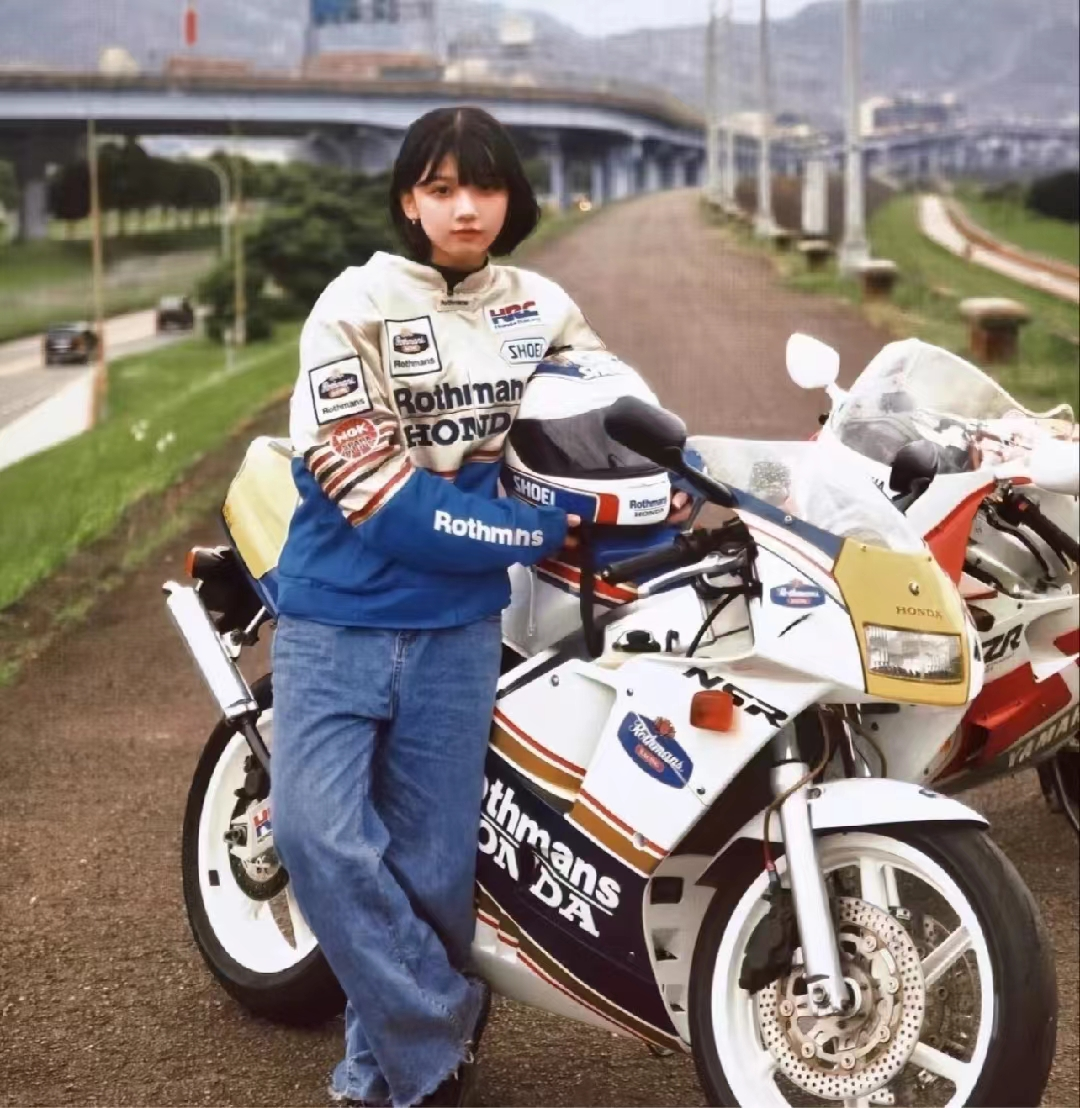
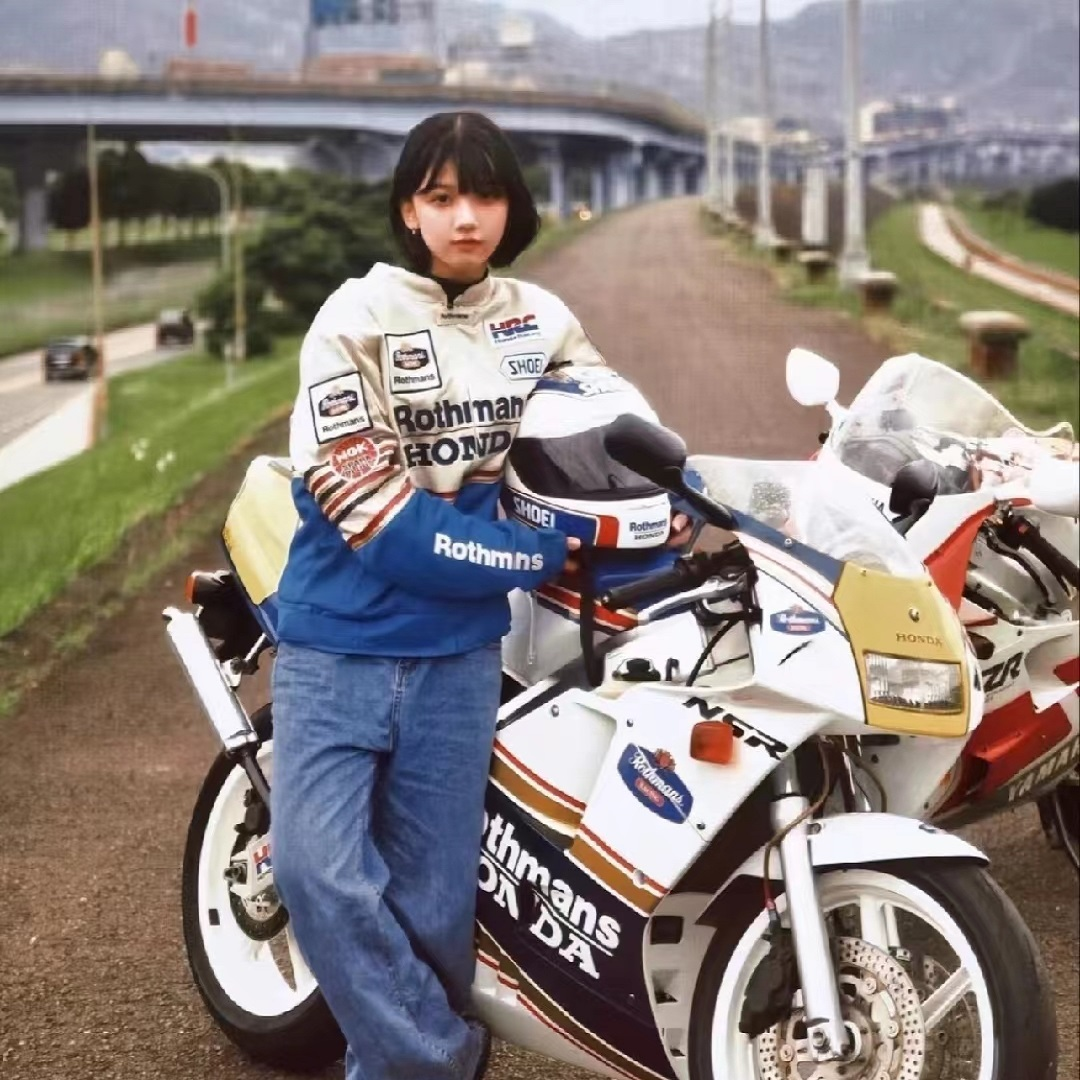
更新九龄图片和修改段落细节

diff --git a/src/views/conter/index.vue b/src/views/conter/index.vue
@@ -47,7 +47,7 @@
           </p>
           <p class="myWebIntrooduce" style="margin-top: 20px">
             <a
-              href="https://www.bilibili.com"
+              href=""
               style="text-decoration: none; color: #002fa7"
               >去看看我的文章
               <svg
@@ -118,23 +118,12 @@
         justify="center"
         style="margin-top: 30px"
         :gutter="30"
-      >
-        <el-col :span="7">
-          <img
-            src="../../assets/dc7b9bab75eb5c1347536417d7b5a5e.jpg"
-            alt=""
-            style="width: 100%; height: 75%"
-          />
-          <h5 style="margin: 10px 0px; color: rgb(59, 59, 59)">CAMERA</h5>
-          <h3>华南农业大学的牛牛</h3>
-          <h5>_______</h5>
-          <h5 style="font-style: italic; margin-top: 10px">by Web</h5>
-        </el-col>
+      > 
         <el-col :span="7">
           <img
             src="../../assets/6fb5314fa7ab822b04926d3d03a01e8.jpg"
             alt=""
-            style="width: 100%; height: 75%"
+            style="width: 100%; height: auto"
           />
           <h5 style="margin: 10px 0px; color: rgb(59, 59, 59)">PEOPLE</h5>
           <a
@@ -169,12 +158,47 @@
           <img
             src="../../assets/f1affa5852406db49844164e1d1381d.jpg"
             alt=""
-            style="width: 100%; height: 75%"
+            style="width: 100%; height: auto"
           />
           <h5 style="margin: 10px 0px; color: rgb(59, 59, 59)">PEOPLE</h5>
           <h3>很cool的车车</h3>
           <h5>_______</h5>
           <h5 style="font-style: italic; margin-top: 10px">by NoName</h5>
+        </el-col>
+        <el-col :span="7">
+          <img
+            src="@/assets/imgs/九龄.png"
+            alt=""
+            style="width: 100%; height: auto;"
+          />
+          <h5 style="margin: 10px 0px; color: rgb(59, 59, 59)">PEOPLE</h5>
+          <a
+            href="https://space.bilibili.com/51588985"
+            style="color: black; text-decoration: none"
+          >
+            <h3>
+              B站up:是一只九龄
+              <svg
+                t="1692949855247"
+                class="icon"
+                viewBox="0 0 1024 1024"
+                version="1.1"
+                xmlns="http://www.w3.org/2000/svg"
+                p-id="3799"
+                width="32"
+                height="32"
+              >
+                <path
+                  d="M455.68 404.032l91.264 529.152c0 0 67.456-69.44 123.136-117.888l122.432 163.904c4.928 6.656 15.68 7.104 23.872 1.088l52.288-38.208c8.256-6.016 10.944-16.32 5.952-22.976l-119.104-159.424c62.208-25.088 164.672-53.632 164.672-53.632L455.68 404.032zM308.352 648.384l-135.872 99.328c-20.544 15.04-24.256 43.968-8 65.408 16.256 21.376 46.272 27.008 66.752 12.032l135.872-99.328c20.992-15.36 24.512-45.504 8.256-66.88C359.168 637.504 329.344 633.024 308.352 648.384zM949.696 238.976c-16.256-21.376-45.632-26.176-67.072-10.496l-134.912 98.688c-21.44 15.68-25.152 44.672-8.896 66.048 16.256 21.376 46.272 27.008 67.712 11.328l134.912-98.688C962.88 290.176 965.952 260.352 949.696 238.976zM319.296 136.832c-15.936-20.928-45.248-25.728-66.752-10.048-20.096 14.72-24.256 43.968-8.32 64.896l105.536 138.816c15.936 20.992 45.696 25.408 65.792 10.688 21.44-15.68 25.216-44.608 9.28-65.6L319.296 136.832zM585.792 301.76c26.176 4.224 50.24-13.376 53.632-39.232l21.184-167.808c3.392-25.792-14.976-49.984-41.536-54.656-26.176-4.224-50.24 13.376-53.632 39.168l-21.248 167.872C540.928 272.96 559.296 297.088 585.792 301.76zM329.728 489.024c2.56-25.92-15.808-50.048-41.536-54.656l-170.048-27.968c-27.072-3.584-50.688 13.696-53.632 39.232-3.904 26.944 14.464 51.072 41.536 54.656l170.048 27.968C301.824 532.736 325.504 515.456 329.728 489.024z"
+                  fill="#272636"
+                  p-id="3800"
+                ></path>
+              </svg>
+            </h3>
+          </a>
+
+          <h5>_______</h5>
+          <h5 style="font-style: italic; margin-top: 10px">by Bilibili</h5>
         </el-col>
       </el-row>
     </div>
@@ -339,8 +363,8 @@
               </el-row>
             </el-carousel-item>
             <!-- 铃芽 -->
-            <el-carousel-item style="background-color: white">
-              <el-row style="height: 70vh">
+            <el-carousel-item style="background-color: white; overflow: hidden;">
+              <el-row style="height: 70vh;">
                 <el-col :span="18">
                   <img
                     src="@/assets/imgs/铃芽.jpg"
@@ -370,9 +394,6 @@
                     </p>
                     <p class="myPome">
                       画面还是那么精美漂亮，人物塑造方面也中规中矩，虽然没有初见《君名》那样惊艳，也没有《秒五》那样刻苦铭心，我仍然觉得这是一部好作品
-                    </p>
-                    <p class="myPome">
-                     这次看完，没有以前那种怅然若失的感觉，因为以前看完新海诚的作品，总会不由自主感叹一句：“咱们何时才能做出这样的动画啊”。可这次没有，因为在画面张力上咱们有了《深海》，在故事和人物塑造上咱们有了《魔童》
                     </p>
                     <p class="myPome">
                         铃芽究竟在寻找什么呢？虽然看到一半就知道故事的大致走向，可有一点还是不太明白，那只猫咪“大臣”，真的就只是一块用于镇压的“要石”吗？观影过程中我一直猜测猫咪其实是铃芽的妈妈，妈妈是因为镇压地龙而成为“要石”……
